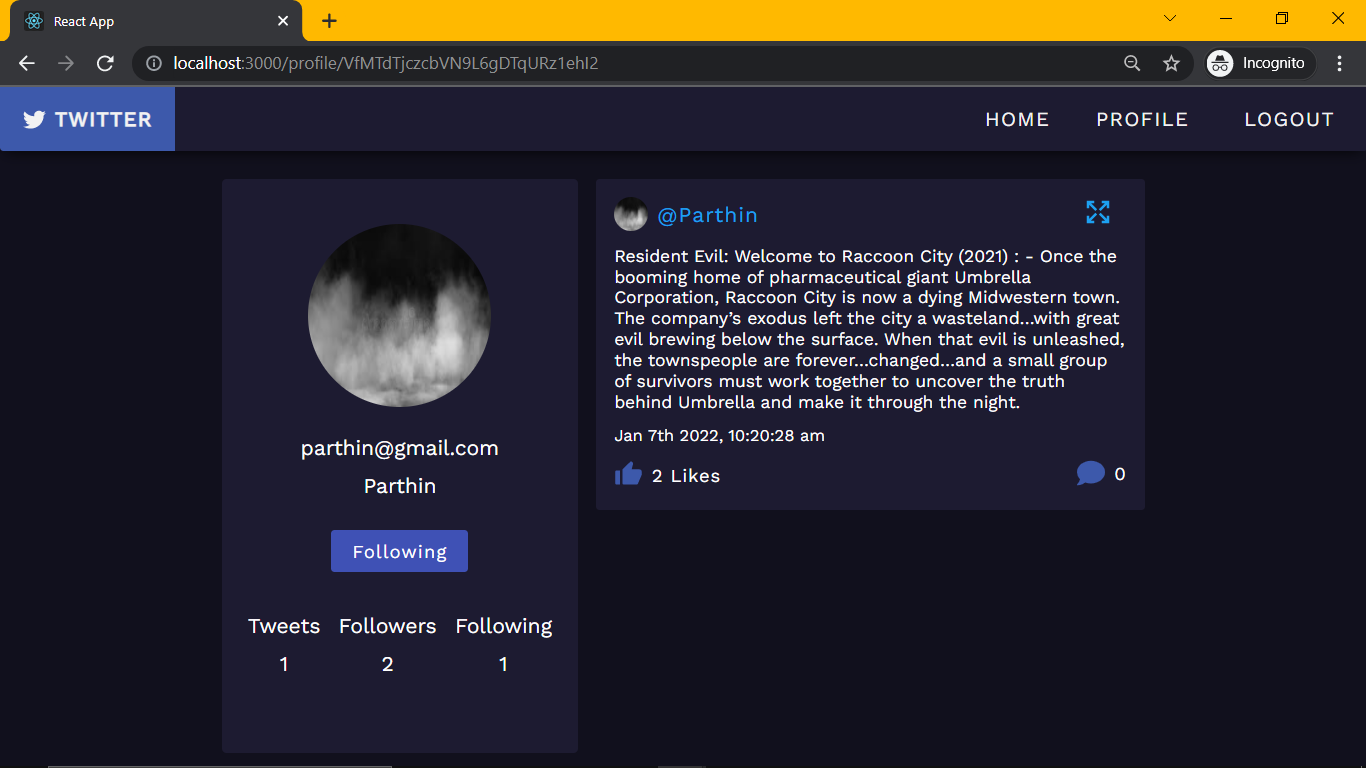
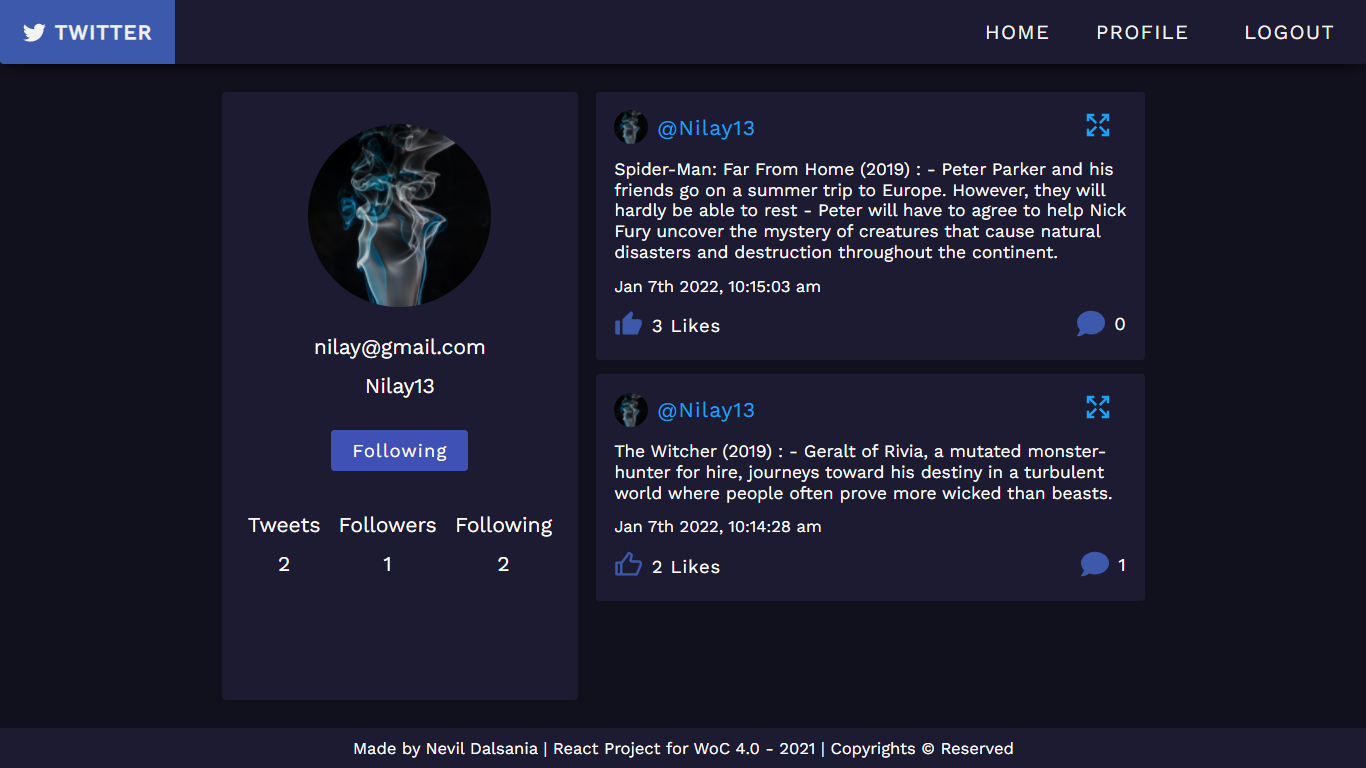
updated

diff --git a/src/components/UserList/UserList.js b/src/components/UserList/UserList.js
@@ -44,11 +44,16 @@ const UserList = () => {
                     <div key={id} className='profile-container'>
                         <img className='profile-image' src={p.photoURL} alt='profile' />
                         <Link to={`/profile/${p.uid}`}>@{p.name}</Link>
-                        <button className='follow-btn' onClick={() => handleFollow(p.uid)}>
-                            {
-                                t && t.findIndex(x => x === p.uid) === -1 ? "Follow" : "Following"
-                            }
-                        </button>
+
+                        {
+                            currentUser && 
+
+                            <button className='follow-btn' onClick={() => handleFollow(p.uid)}>
+                                {
+                                    t && t.findIndex(x => x === p.uid) === -1 ? "Follow" : "Following"
+                                }
+                            </button>
+                        }
                     </div>
                 ))
             }

diff --git a/src/components/Home/Home.js b/src/components/Home/Home.js
@@ -33,7 +33,7 @@ const Home = () => {
                 user ? ( 
                 <div className='input-tweet'>
                     <form onSubmit={handleSubmit} >
-                        <textarea spellCheck="false" value={text} rows={8} cols={25} onChange={(e) => setText(e.target.value)}></textarea>
+                        <textarea spellCheck="false" value={text} rows={8} cols={26} onChange={(e) => setText(e.target.value)}></textarea>
                         <button type='submit'>Tweet</button>
                         <button className='reset-btn' type='reset' onClick={handleReset}>Reset</button>
                     </form>

diff --git a/src/App.js b/src/App.js
@@ -20,6 +20,7 @@ import TweetDesc from './components/TweetDesc/TweetDesc.js';
 import { fetchUsers } from './Store/Actions/UserAction.js';
 import { fetchTweets } from './Store/Actions/TweetAction.js';
 import { fetchComment } from './Store/Actions/CommentAction.js';
+import Footer from './components/Footer/Footer.js';
 
 const App = () => {
   
@@ -64,6 +65,7 @@ const App = () => {
           </Route>
 
         </Routes>
+        <Footer />
     </BrowserRouter>
     </>
 

diff --git a/src/components/Profile/Profile.css b/src/components/Profile/Profile.css
@@ -6,7 +6,7 @@
 
 .profile .personal-info{
     width: 26vw;
-    height: calc(98vh - 100px);
+    height: calc(91vh - 100px);
     margin-right: 20px;
     color: white;
     display: flex;
@@ -15,7 +15,7 @@
     border-radius: 5px;
     font-size: 23px;
     align-items: center;
-    padding: 50px 0px;
+    padding: 35px 0px;
 }
 
 .profile .image-container{

diff --git a/src/components/Footer/Footer.css b/src/components/Footer/Footer.css
@@ -1,0 +1,15 @@
+.footer-container{
+    height: 45px;
+    width: 100vw;
+    background-color: #1d1b31;
+    color: white;
+    display: flex;
+    justify-content: center;
+    align-items: center;
+    margin-top: 15px;
+    font-size: 18px;
+    position: fixed;
+    bottom: 0;
+    left: 0;
+    right: 0;
+}

diff --git a/src/components/Footer/Footer.js b/src/components/Footer/Footer.js
@@ -1,0 +1,14 @@
+import React from 'react';
+
+
+import './Footer.css';
+
+const Footer = () => {
+    return (
+        <div className='footer-container'>
+            Made by Nevil Dalsania | React Project for WoC 4.0 - 2021 | Copyrights &copy; Reserved
+        </div>
+    )
+}
+
+export default Footer

diff --git a/src/components/Home/Home.css b/src/components/Home/Home.css
@@ -6,7 +6,7 @@
 
 
 .home .input-tweet{
-    margin: 0px 20px;
+    margin-left: 20px;
 }
 .home .input-tweet form{
     display: flex;
@@ -56,6 +56,6 @@
     font-size: 25px;
     padding: 10px;
     text-align: center;
-    margin: 0px 20px;
+    margin-left: 20px;
     background-color: #1d1b31;
 }

diff --git a/src/components/UserList/UserList.css b/src/components/UserList/UserList.css
@@ -1,6 +1,6 @@
 .userlist{
     width: 350px;
-    height: calc(98vh - 100px);
+    height: calc(91vh - 100px);
     margin-right: 20px;
     overflow: scroll;
     background-color: #1d1b31;

diff --git a/src/components/TweetList/TweetList.css b/src/components/TweetList/TweetList.css
@@ -3,7 +3,7 @@
     flex-direction: column;
     align-items: center;
     overflow: scroll;
-    max-height: calc(98vh - 100px);
+    max-height: calc(91vh - 100px);
 }
 
 .load-container{

diff --git a/src/components/Signup/Signup.css b/src/components/Signup/Signup.css
@@ -15,7 +15,7 @@
 }
 
 .signup form{
-    margin-top: 35px;
+    margin-top: 15px;
     margin-bottom: 30px;
     width: 520px;
     background-color: rgba(255, 255, 255, 0.06);

diff --git a/src/components/Login/Login.css b/src/components/Login/Login.css
@@ -15,7 +15,6 @@
 
 .login form{
     width: 520px;
-    margin-top: 30px;
     background: #1d1b31;
     position: absolute;
     transform: translate(-50%,-50%);

diff --git a/src/components/TweetDesc/TweetDesc.css b/src/components/TweetDesc/TweetDesc.css
@@ -50,5 +50,5 @@
     justify-content: center;
     width: 600px;
     word-wrap: break-word;
-
+    margin-bottom: 60px;
 }
